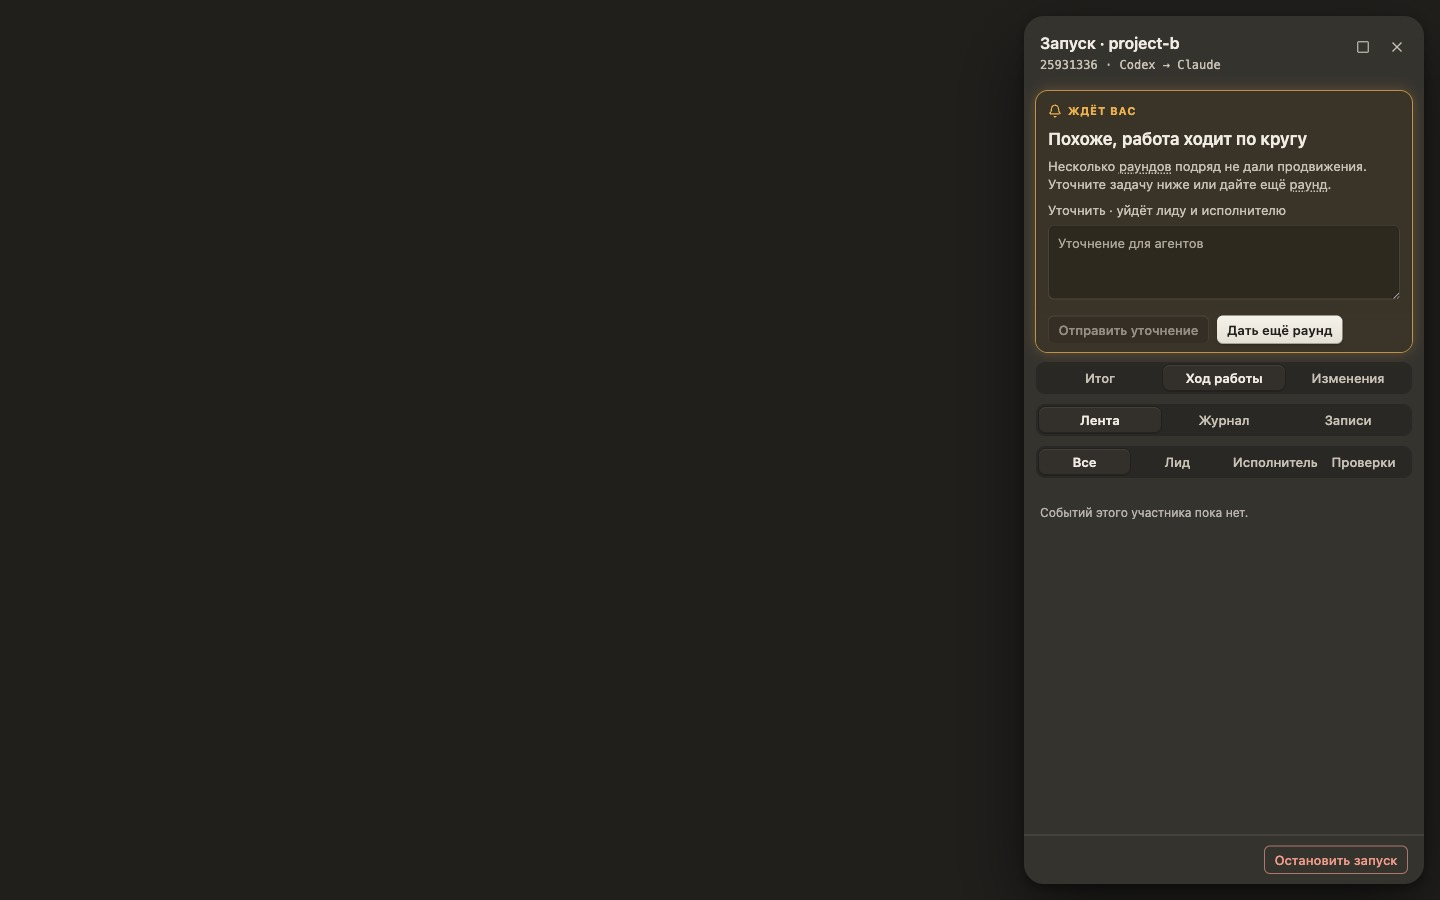
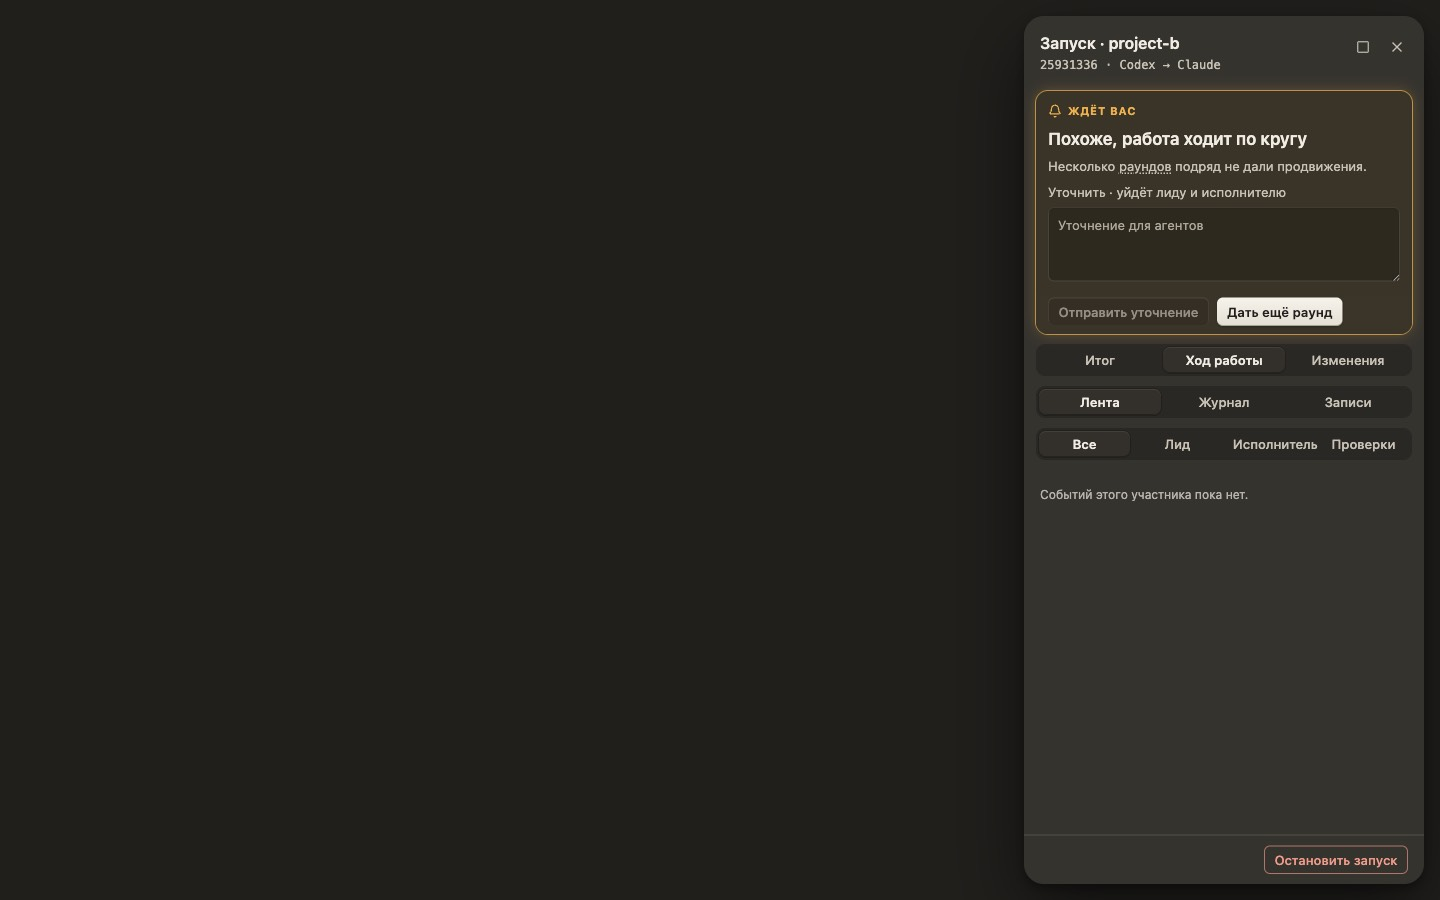
fix(redesign): R5b by D-017 — clarify in the zone wherever main takes it, the role filter on All, the opening tab by pause, no hint paragraphs under permission buttons; smokes click roles by name

Changed region(s): [[0.7188, 0.3111, 0.9688, 0.5911], [0.7188, 0.1867, 0.9375, 0.28]]

diff --git a/src/renderer/src/features/orchestration/runModel.ts b/src/renderer/src/features/orchestration/runModel.ts
@@ -25,6 +25,15 @@ import { STEP_ONLY, STOP_ONLY, RESUMABLE, admits, type AdmissionKind } from "../
 export { admits, RESUMABLE, STEP_ONLY, STOP_ONLY, type AdmissionKind };
 export const ACTIVE_STATUSES = ["preparing", "running", "pausing", "paused", "stopping"];
 export const TERMINAL_STATUSES = ["stopped", "completed", "failed"];
+// R5b (D-017): the tab a run opens on, as the mock-ups have it: a finished run and the decisions of the checks and the
+// finish on the summary, the pauses about the tree on the changes, the work on "Work"
+const SUMMARY_PAUSES = ["awaiting_checks_decision", "awaiting_finish_confirmation", "check_needs_permissions"];
+const CHANGES_PAUSES = ["outcome_unknown", "lead_modified_tree"];
+export function openingTab(view: { status: string; reason?: string | null } | undefined): "summary" | "work" | "changes" {
+  if (!view || TERMINAL_STATUSES.includes(view.status)) return "summary";
+  if (view.status !== "paused") return "work";
+  return SUMMARY_PAUSES.includes(view.reason ?? "") ? "summary" : CHANGES_PAUSES.includes(view.reason ?? "") ? "changes" : "work";
+}
 
 // C1 (stage-c-parallel.md §6.2): a link may run several tasks at once. Its live runs (at most the last four), the one
 // shown — the picked one while it is the link's, else the latest that goes on, else the latest. Chip and panel use the same.
@@ -692,8 +701,6 @@ export function zoneSet(view: OrchestrationRunView, entries: readonly Orchestrat
   return pauseSet(reason, onMac, view.proposal?.checks.length === 0);
 }
 
-const CLARIFY_IN_ZONE: ReadonlySet<string> = new Set(["plan_review", "loop_suspected"]);
-
 export function actionZone(locale: LocaleId, view: OrchestrationRunView, entries: readonly OrchestrationActivityEntry[], onMac = orchestrationAvailableHere()): ZoneModel {
   const L = (key: string) => t(locale, key as TranslationKey);
   const b = (action: ZoneAction, label: string, commands: AdmissionKind[] = [], danger = false, after?: AdmissionKind): ZoneButton =>
@@ -706,9 +713,8 @@ export function actionZone(locale: LocaleId, view: OrchestrationRunView, entries
   // Clarify is main's own gate: a state that denies it hides it, except the one denial that passes (a waiting proposal)
   const clarifyOpen = !view.halted && !view.newer && admits("clarify", { ...ctx, proposalWaits: false }) === null;
   const done = (z: Omit<ZoneModel, "commands" | "clarify"> & { clarify?: ZoneModel["clarify"] }): ZoneModel => {
-    // R5b (D-015): the field stands in the zone only where the mock-up has it: a plan under review and a suspected loop;
-    // elsewhere the command is not offered by the zone
-    const clarify = z.clarify ?? (clarifyOpen && CLARIFY_IN_ZONE.has(z.variant) ? (view.proposalWaits ? "disabled" : "collapsed") : "hidden");
+    // R5b (D-017, mock-up 13): the field stands in the zone wherever main takes clarify; the pauses with a decision of their own hide it
+    const clarify = z.clarify ?? (clarifyOpen ? (view.proposalWaits ? "disabled" : "collapsed") : "hidden");
     const all = [z.primary, ...z.secondary, ...z.dangerous, ...z.footer].flatMap((x) => x?.commands ?? []);
     return { ...z, clarify, commands: [...new Set<AdmissionKind>([...all, ...(clarify === "collapsed" || clarify === "open" ? (["clarify"] as AdmissionKind[]) : [])])] };
   };
@@ -723,7 +729,7 @@ export function actionZone(locale: LocaleId, view: OrchestrationRunView, entries
     return state("halted", "halted", { tone: "waiting", why: L("orchNext_halted"), primary: b("open_journal", L("orchZone_openJournal")) });
   }
   if (view.permission && ["preparing", "running", "pausing"].includes(status)) {
-    return state("permission", "awaiting_permission", { tone: "waiting", title: L("orchZone_permissionTitle").replace("{agent}", providerName(view.permission.provider)),
+    return state("permission", "awaiting_permission", { ...(view.permission.kind === "plan" ? { clarify: "hidden" as const } : {}), tone: "waiting", title: L("orchZone_permissionTitle").replace("{agent}", providerName(view.permission.provider)),
       why: L("orchZone_permissionWhy"), footer: [stop()] });
   }
   const text = pauseText(locale, view, entries, onMac);
@@ -749,7 +755,7 @@ export function actionZone(locale: LocaleId, view: OrchestrationRunView, entries
   // paused
   const set = zoneSet(view, entries, onMac);
   const title = text?.what ?? L(`orchHeadline_${runHeadline(view).headline}`);
-  const base = { variant: set, tone: (text?.you === false ? "calm" : "waiting") as ZoneTone, eyebrow: "", title, why: text?.why ?? "", todo: set === "plan_review" ? "" : text?.todo ?? "" }; // plan_review: the "why" alone (the mock-up 04)
+  const base = { variant: set, tone: (text?.you === false ? "calm" : "waiting") as ZoneTone, eyebrow: "", title, why: text?.why ?? "", todo: ["plan_review", "awaiting_checks_decision", "awaiting_checks_none", "loop_suspected"].includes(set) ? "" : text?.todo ?? "" }; // the "why" alone (mock-ups 04, 05, 06, 09)
   const resume = (label = text?.button ?? L("orchResume")) => b("resume", label, ["resume"]);
   const step = () => b("step", L("orchStep"), ["step"]);
   const secondary: ZoneButton[] = [];
@@ -779,6 +785,7 @@ export function actionZone(locale: LocaleId, view: OrchestrationRunView, entries
         if (view.workMode === "copy") dangerous.push(b("recover_reset", L("orchRecoverReset"), ["recover", "recover.reset"], true));
         break;
       case "awaiting_checks_decision":
+        clarify = "hidden";
         if (set === "awaiting_checks_none") {
           primary = b("checks_edit", L("orchChecksSave"), ["checks.decide"]);
           dangerous.push(b("checks_accept", L("orchChecksNoChecks"), ["checks.decide"], true));
@@ -787,10 +794,11 @@ export function actionZone(locale: LocaleId, view: OrchestrationRunView, entries
           secondary.push(b("checks_edit", L("orchChecksEdit"), ["checks.decide"]));
         }
         break;
-      case "awaiting_finish_confirmation": primary = b("finish_confirm", L("orchZone_sendDecisions"), ["finish.confirm"]); break;
-      case "check_needs_permissions": primary = b("check_amend", L("orchZone_saveOwn"), ["check.amend"]); break;
-      case "awaiting_person_decision": primary = b("person_decide", L("orchZone_sendDecisions"), ["person.decide"]); break;
+      case "awaiting_finish_confirmation": clarify = "hidden"; primary = b("finish_confirm", L("orchZone_sendDecisions"), ["finish.confirm"]); break;
+      case "check_needs_permissions": clarify = "hidden"; primary = b("check_amend", L("orchZone_saveOwn"), ["check.amend"]); break;
+      case "awaiting_person_decision": clarify = "hidden"; primary = b("person_decide", L("orchZone_sendDecisions"), ["person.decide"]); break;
       case "coverage_lost":
+        clarify = "hidden";
         primary = b("plan_return", L("orchProposalReturn"), ["plan.decide"]);
         dangerous.push(b("plan_accept", L("orchProposalAcceptDrop"), ["plan.decide"], true));
         break;

diff --git a/src/renderer/src/features/orchestration/useAgentCanvasUi.ts b/src/renderer/src/features/orchestration/useAgentCanvasUi.ts
@@ -6,7 +6,7 @@ import type { LocaleId, Point } from "../../../../shared/contracts";
 import type { OrchestrationAgentLink, OrchestrationProviderKind } from "../../../../shared/orchestration";
 import { AGENT_CARD_SIZE } from "./agentCardGeometry";
 import { linkTrace } from "./linkTrace";
-import { createIdKeeper, shownRunId, TERMINAL_STATUSES, type PickedRun } from "./runModel";
+import { createIdKeeper, openingTab, shownRunId, TERMINAL_STATUSES, type PickedRun } from "./runModel";
 import { outcomeText, type Orchestration } from "./useOrchestration";
 
 import { panelView, type PanelMode, type PanelRole, type PanelSection, type PanelTab, type PanelView, type PanelViewArg } from "./panelTabs";
@@ -107,7 +107,7 @@ export function useAgentCanvasUi(orch: Orchestration, locale: LocaleId, workspac
       const v = panelView(opts);
       setPanel((cur) => {
         const same = cur?.linkId === linkId ? cur : null;
-        return { linkId, ...target(v, same, "overview"), role: v.role ?? same?.role ?? "executor", focus };
+        return { linkId, ...target(v, same, "overview"), role: v.role ?? same?.role ?? "all", focus };
       });
     },
     // Switch the tab/mode/section/participant, or (runId) the run shown among a link's live ones.
@@ -128,27 +128,26 @@ export function useAgentCanvasUi(orch: Orchestration, locale: LocaleId, workspac
     openRun: (linkId: string) => {
       const link = orch.canvas.links.find((l) => l.linkId === linkId);
       const runId = shownRunId(link, orch.runs, pickedRuns);
-      const status = runId ? orch.runs[runId]?.view.status : undefined;
+      const view = runId ? orch.runs[runId]?.view : undefined;
       setGoalLinkId(null);
       focusCount.current += 1;
       const focus = focusCount.current;
-      // R5b: a run that goes on opens on "Work" (the mock-up 01); a finished one on the summary
-      const active = !!status && !TERMINAL_STATUSES.includes(status);
-      setPanel((cur) => ({ linkId, tab: active ? "work" : "summary", mode: "feed", section: undefined, role: cur?.linkId === linkId ? cur.role : "executor", focus }));
+      // R5b (D-017): the tab by the run's state, as the mock-ups (openingTab); the role filter starts at "All" (mock-up 13)
+      setPanel((cur) => ({ linkId, tab: view ? openingTab(view) : "summary", mode: "feed", section: undefined, role: cur?.linkId === linkId ? cur.role : "all", focus }));
     },
     // A run by id, with or without its link; the same view arguments as openPanel (a bare string stays a legacy key).
     openRunById: (runId: string, arg?: PanelViewArg) => {
       orch.watchRun(runId);
       const linkId = orch.canvas.links.find((l) => l.runIds.includes(runId))?.linkId ?? null;
-      const status = orch.runs[runId]?.view.status;
+      const view = orch.runs[runId]?.view;
       setGoalLinkId(null);
       focusCount.current += 1;
       const focus = focusCount.current;
       const v = panelView(arg);
-      const dflt = !status || TERMINAL_STATUSES.includes(status) ? undefined : "overview";
+      const dflt = !view || TERMINAL_STATUSES.includes(view.status) ? undefined : "overview";
       // a run of a link is the link's picked run (chip and panel agree); only a run without its link is held by the panel
       if (linkId) setPickedRuns((p) => ({ ...p, [linkId]: pickOf(linkId, runId) }));
-      setPanel({ linkId, ...(linkId ? {} : { runId }), ...target(dflt && !v.tab && !v.section ? { ...v, tab: "work" } : v, null, dflt), role: v.role ?? "executor", focus });
+      setPanel({ linkId, ...(linkId ? {} : { runId }), ...target(dflt && !v.tab && !v.section ? { ...v, tab: openingTab(view) } : v, null, dflt), role: v.role ?? "all", focus });
     },
     closePanel: () => setPanel(null),
     // The native browser view composites above the DOM; it hides while one of these is open.

diff --git a/src/renderer/src/features/orchestration/ActionZone.tsx b/src/renderer/src/features/orchestration/ActionZone.tsx
@@ -113,23 +113,28 @@ export function ActionZone(p: ActionZoneProps): React.JSX.Element {
   const dangerRows = zone.dangerous.map((b) => row(b, "dangerous")).filter(Boolean);
   const hint = zone.dangerous.map((b) => DANGER_HINT[b.action]).find(Boolean);
   const label = zone.tone === "neutral" ? zone.eyebrow || null : zone.tone === "waiting" ? tr(locale, "orchPauseYou") : tr(locale, "orchPauseNotYou");
+  // the words of mock-up 13 ("goes to the agents with the next turn"); the plan under review and the loop keep their own (mock-ups 04, 09)
+  const asked = zone.variant === "plan_review" || zone.variant === "loop_suspected";
   const clarifyShown = zone.clarify !== "hidden" && clarifyOpen && !clarifyOff;
+  // the clarify field open: it stands above the row, the main button is the last of the row (the mock-up's loop-suspected)
+  const sendClarify = clarifyShown && (
+    <button type="button" key="clarify-send" disabled={p.sending || clarifyOff || !p.clarify.value.trim()} data-orch-clarify-send onClick={p.clarify.onSend}>{tr(locale, asked ? "orchZone_clarifySend" : "orchZone_clarifySendShort")}</button>
+  );
+  // no other button in the row (a run at work, mock-up 13): "Send" stands beside the field
+  const inlineSend = clarifyShown && rows.length === 0;
   const clarifyBox = zone.clarify === "hidden" ? null : (
-    <div className="orch-zone__clarify" data-orch-clarify={zone.clarify}>
+    <div className={`orch-zone__clarify${inlineSend ? " orch-zone__clarify--inline" : ""}`} data-orch-clarify={zone.clarify}>
       {!clarifyShown
         ? <button type="button" className="orch-textual" disabled={clarifyOff} title={p.clarifyOff ?? undefined} aria-describedby={clarifyOff ? reasonId : undefined} aria-expanded={false} data-orch-clarify-open onClick={() => setClarifyOpen(true)}>{tr(locale, zone.variant === "plan_review" ? "orchZone_clarifyTask" : "orchClarify")}</button>
-        : <label className="orch-zone__clarify-label">{tr(locale, "orchZone_clarifyLabel")}
+        : <label className="orch-zone__clarify-label"><span>{tr(locale, asked ? "orchZone_clarifyLabel" : "orchZone_clarifyLabelNext")}</span>
           <textarea rows={3} value={p.clarify.value} placeholder={tr(locale, "orchClarifyPlaceholder")} onChange={(e) => p.clarify.onChange(e.target.value)} />
         </label>}
+      {inlineSend && sendClarify}
       {zone.clarify === "disabled" && <small className="orch-hint" id={reasonId} data-orch-proposal-waits>{tr(locale, "orchProposalWaitsHint")}</small>}
       {zone.clarify !== "disabled" && p.clarifyOff && <small className="orch-hint" id={reasonId} data-orch-platform-hint>{p.clarifyOff}</small>}
     </div>
   );
-  // the clarify field open: it stands above the row, the main button is the last of the row (the mock-up's loop-suspected)
-  const sendClarify = clarifyShown && (
-    <button type="button" key="clarify-send" disabled={p.sending || clarifyOff || !p.clarify.value.trim()} data-orch-clarify-send onClick={p.clarify.onSend}>{tr(locale, "orchZone_clarifySend")}</button>
-  );
-  const rowButtons = clarifyShown && zone.primary && !FORM_ACTIONS.has(zone.primary.action) ? [sendClarify, ...rows.slice(1), rows[0]] : clarifyShown ? [sendClarify, ...rows] : rows;
+  const rowButtons = inlineSend ? [] : clarifyShown && zone.primary && !FORM_ACTIONS.has(zone.primary.action) ? [sendClarify, ...rows.slice(1), rows[0]] : clarifyShown ? [sendClarify, ...rows] : rows;
   return (
     <section ref={p.zoneRef} tabIndex={-1} role="status" aria-live="polite" data-orch-summary data-headline={p.headline} data-orch-zone={zone.variant} data-orch-tone={zone.tone}
       className={`orch-zone orch-zone--${zone.tone} orch-zone--${p.headline} orch-panel__status orch-panel__status--${p.status}${p.flash ? " orch-zone--flash" : ""}${p.compact ? " orch-zone--compact" : ""}`}>

diff --git a/src/renderer/src/features/orchestration/RunPanel.tsx b/src/renderer/src/features/orchestration/RunPanel.tsx
@@ -605,7 +605,8 @@ function PermissionBlock({ locale, request, more, sending, onDecide }: {
   const title = question ? "orchPermQuestion" : request.kind === "plan" ? "orchPermPlan" : request.kind === "elicitation" ? "orchPermForm" : "orchPermTitle";
   // R5b: the zone's headline already says "Claude asks for permission": a plain request shows only whose it is
   const head = <h4>{title === "orchPermTitle" ? roleName(locale, request.role) : `${t(locale, title)} · ${roleName(locale, request.role)}`}</h4>;
-  const foot = <p className="orch-hint">{t(locale, "orchPermHint")}{more > 0 ? ` ${t(locale, "orchPermMore")} ${more}.` : ""}</p>;
+  // R5b (D-017): no hint under the buttons (mock-up 03); only the count of the others waiting
+  const foot = more > 0 ? <p className="orch-hint">{t(locale, "orchPermMore")} {more}.</p> : null;
 
   if (request.kind === "plan") {
     return (
@@ -669,7 +670,6 @@ function PermissionBlock({ locale, request, more, sending, onDecide }: {
           </button>
         ))}
       </div>
-      {request.options.includes("allow_run") && <p className="orch-hint">{t(locale, "orchPermScopeHint")}</p>}
       {request.options.includes("allow_readonly_run") && <p className="orch-hint" data-orch-readonly-hint>{t(locale, "orchPermReadOnlyHint")}</p>}
       {request.alwaysAsk && <p className="orch-hint" data-orch-always-ask>{t(locale, "orchPermAlwaysAsk")}</p>}
       {foot}
@@ -2037,7 +2037,7 @@ function CurrentRunPanel({ orch, runId, locale, panel, onClose, onNewGoal, onPro
             {curTab === "work" && panel.mode === "feed" && runId && (
               <ActivityList key={`a:${panel.role}`} locale={locale} entries={activity.entries} gaps={activity.gaps} filter={roleFilter}
                 emptyText={activity.status === "loading" ? t(locale, "orchLoading") : t(locale, "orchFeedEmpty")}
-                silence={selected ? silenceFor(selected) : null} />
+                silence={selected ? silenceFor(selected) : [lead, executor, reviewer].map((x) => (x ? silenceFor(x) : null)).find(Boolean) ?? null} />
             )}
             {curTab === "work" && panel.mode === "journal" && runId && (
               <ActivityList key={`l:${panel.role}`} locale={locale} entries={activity.entries} gaps={activity.gaps} filter={logFilter}

diff --git a/src/renderer/src/lib/i18n.ts b/src/renderer/src/lib/i18n.ts
@@ -2208,6 +2208,8 @@ const ru = {
   orchZone_permissionWhy: "Ход стоит, пока вы не ответите.",
   orchZone_goalAccepted: "Цель принята финальным ревью",
   orchZone_clarifyLabel: "Уточнить · уйдёт лиду и исполнителю",
+  orchZone_clarifyLabelNext: "Уточнить · уйдёт агентам со следующим ходом",
+  orchZone_clarifySendShort: "Отправить",
   orchZone_clarifySend: "Отправить уточнение",
   orchZone_clarifyTask: "Уточнить задачу",
   orchZone_hint_recover_reset: "с подтверждением; скрыто в режиме «в папке проекта»",
@@ -4664,6 +4666,8 @@ const en: Record<keyof typeof ru, string> = {
   orchZone_permissionWhy: "The turn waits until you answer.",
   orchZone_goalAccepted: "The goal was accepted by the final review",
   orchZone_clarifyLabel: "Clarify · goes to the lead and the executor",
+  orchZone_clarifyLabelNext: "Clarify · goes to the agents with the next turn",
+  orchZone_clarifySendShort: "Send",
   orchZone_clarifySend: "Send the clarification",
   orchZone_clarifyTask: "Clarify the task",
   orchZone_hint_recover_reset: "asks to confirm; hidden in the “in the project folder” mode",

diff --git a/src/renderer/src/styles/app.css b/src/renderer/src/styles/app.css
@@ -1226,6 +1226,10 @@ button { border: 0; }
 .orch-limit .orch-field.orch-field--inline { display: flex; flex-direction: column; align-items: stretch; gap: 2px; }
 .orch-zone__clarify { display: flex; flex-direction: column; align-items: flex-start; gap: 6px; }
 .orch-zone__clarify textarea { width: 100%; box-sizing: border-box; }
+/* mock-up 13: the field and "Send" in one row, the label above both */
+.orch-zone__clarify--inline { display: grid; grid-template-columns: 1fr auto; align-items: start; gap: 6px 8px; }
+.orch-zone__clarify--inline .orch-zone__clarify-label { display: contents; }
+.orch-zone__clarify--inline .orch-zone__clarify-label > span { grid-column: 1 / -1; }
 .orch-confirm { display: flex; flex-direction: column; gap: 6px; padding: 8px 10px; border-radius: 10px; background: var(--status-failed-bg); }
 .orch-confirm__row { display: flex; flex-wrap: wrap; gap: 8px; }
 /* the footer under the tabs, outside the scroll: pause after the turn, Stop (outlined), copy buttons */
